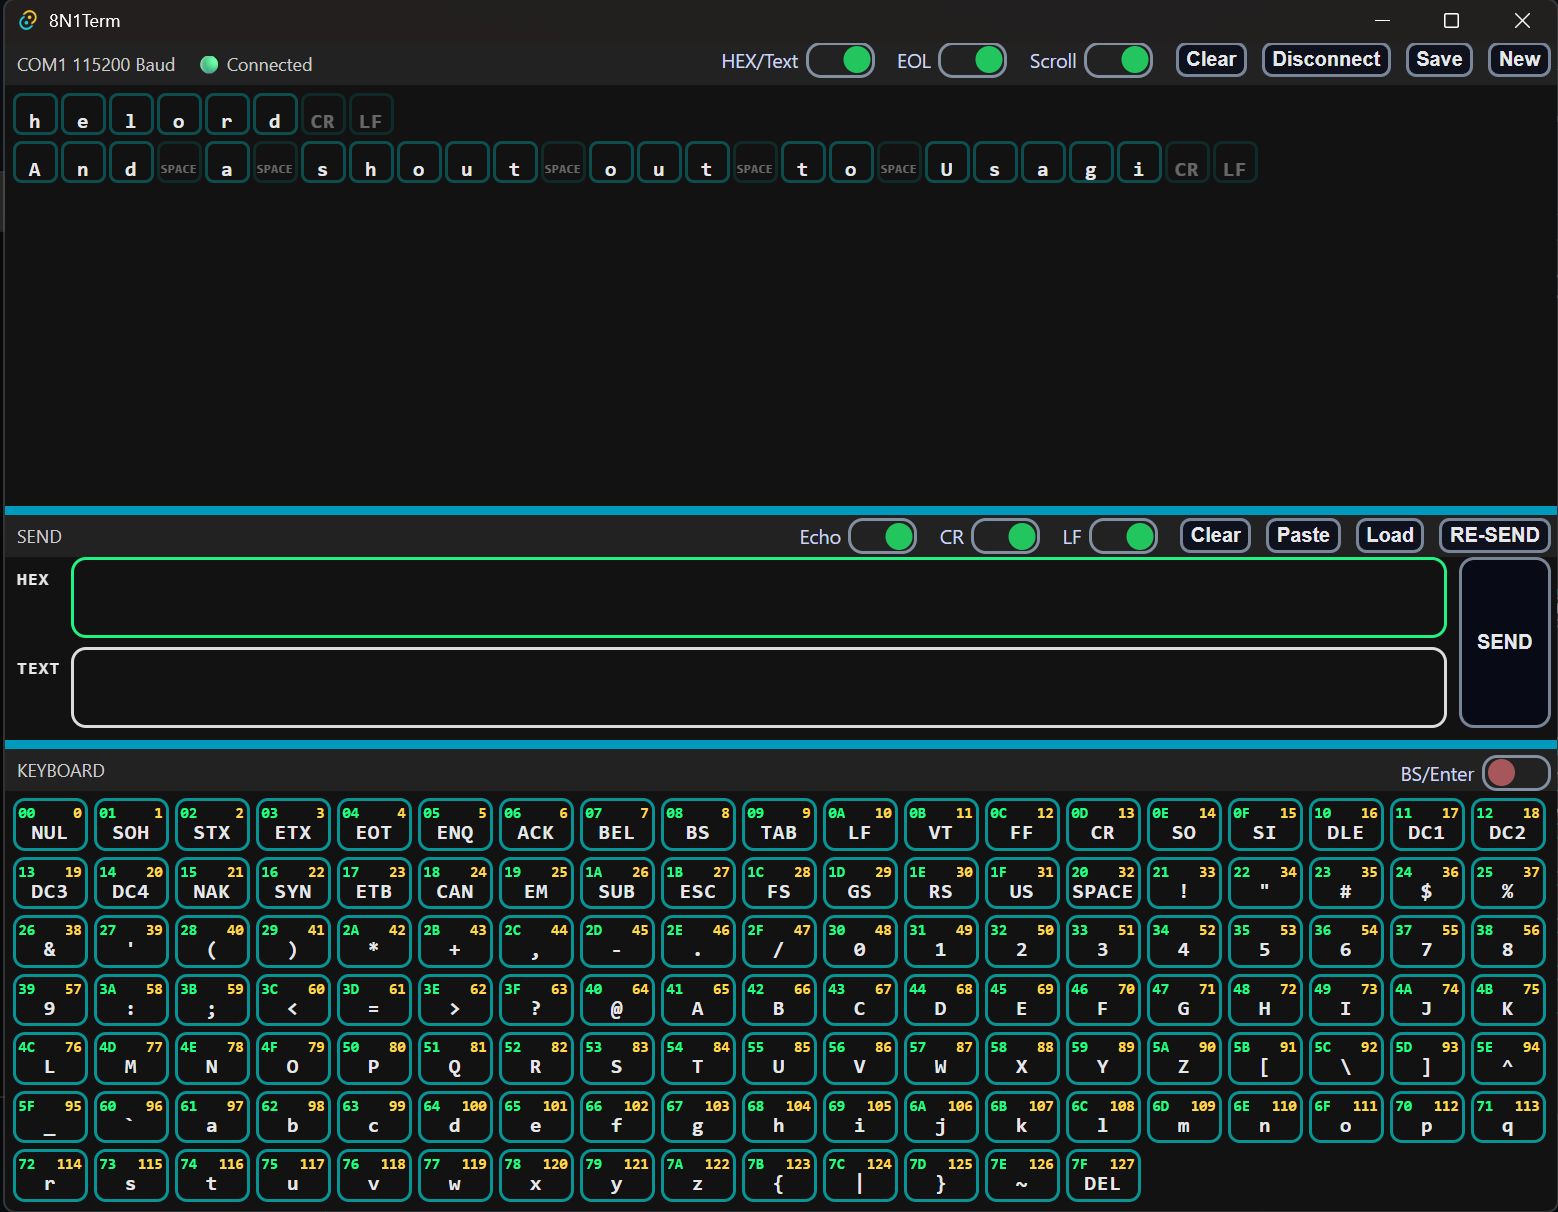
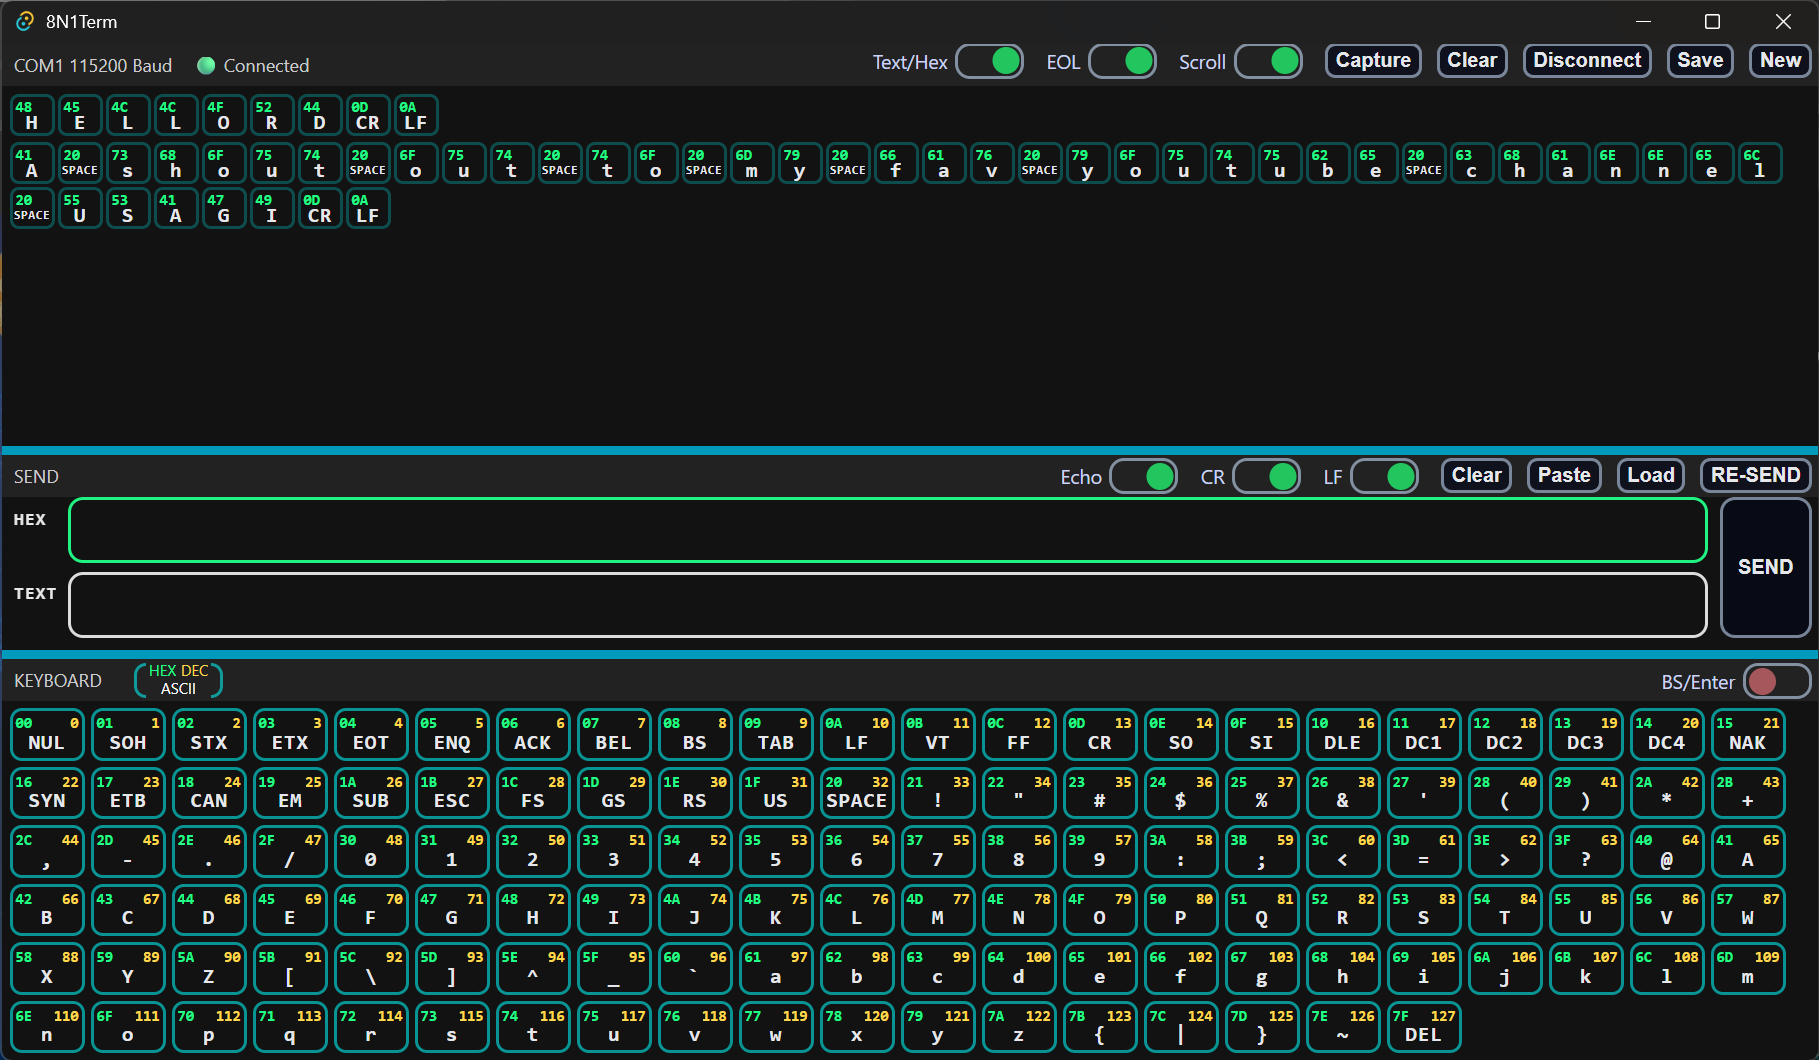
HEX focus, Low Level Capture focus

Changed region(s): [[0.0, 0.4047, 1.0, 1.0], [0.0, 0.0, 0.9859, 0.2179], [0.4621, 0.0, 1.0, 0.0934]]

diff --git a/src/main.js b/src/main.js
@@ -19,7 +19,7 @@ let		EOL			 = true;
 let		CR 		 	 = true;
 let		LF 		 	 = true;
 let		scroll		 = true;
-let		hextext 	 	 = true;
+let		texthex 	 = true;
 let 	hexEl 		 = null;
 let 	textEl 		 = null;
 let 	tx_buffer    = [];
@@ -49,7 +49,7 @@ let unlisten_rx = await listen('serial_rx', (event) => {
 		let frag = renderRX(bytes, false);
 		el_rx.appendChild(frag);
 		doEcho();
-		doHexText();
+		dotexthex();
 		doScroll();
 	} catch (e) {
 		console.log('serial_rx',e);
@@ -169,16 +169,16 @@ const tog_reconnect = createToggle({
 l_rx.appendChild(tog_reconnect);
 */
 
-const tog_hextext = createToggle({
-  label: "HEX/Text",
-  initial: hextext,
+const tog_texthex = createToggle({
+  label: "Text/Hex",
+  initial: texthex,
   onChange: (label, state) => {
     console.log(label, state);
-	hextext = state;
-	doHexText();
+	texthex = state;
+	dotexthex();
   }
 });
-l_rx.appendChild(tog_hextext);
+l_rx.appendChild(tog_texthex);
 
 const tog_eol = createToggle({
   label: "EOL",
@@ -306,12 +306,12 @@ function doScroll() {
 		el_rx.scrollTop = el_rx.scrollHeight;
 }
 
-function doHexText() {
+function dotexthex() {
 	document.querySelectorAll('.ascii-hex').forEach(el => {
-		el.style.display = hextext ? 'none' : ''
+		el.style.display = texthex ? '' : 'none'
 	});
 	document.querySelectorAll('.ascii-hide').forEach(el => {
-		 el.style.opacity = hextext ? '0.4' : '1';
+		 el.style.opacity = texthex ? '1' : '0.4';
 	})
 }
 
@@ -482,7 +482,7 @@ async function sendBuffer() {
 		el_rx.appendChild(frag);
 		doEcho();
 		doEOL();
-		doHexText();
+		dotexthex();
 		doScroll();
 		clearTX();
 	} catch(e) {
@@ -510,7 +510,7 @@ async function reSendBuffer() {
 		el_rx.appendChild(frag);
 		doEcho();
 		doEOL();
-		doHexText();
+		dotexthex();
 		doScroll();
 	} catch(e) {
 		console.log('reSendBuffer()', e);	
